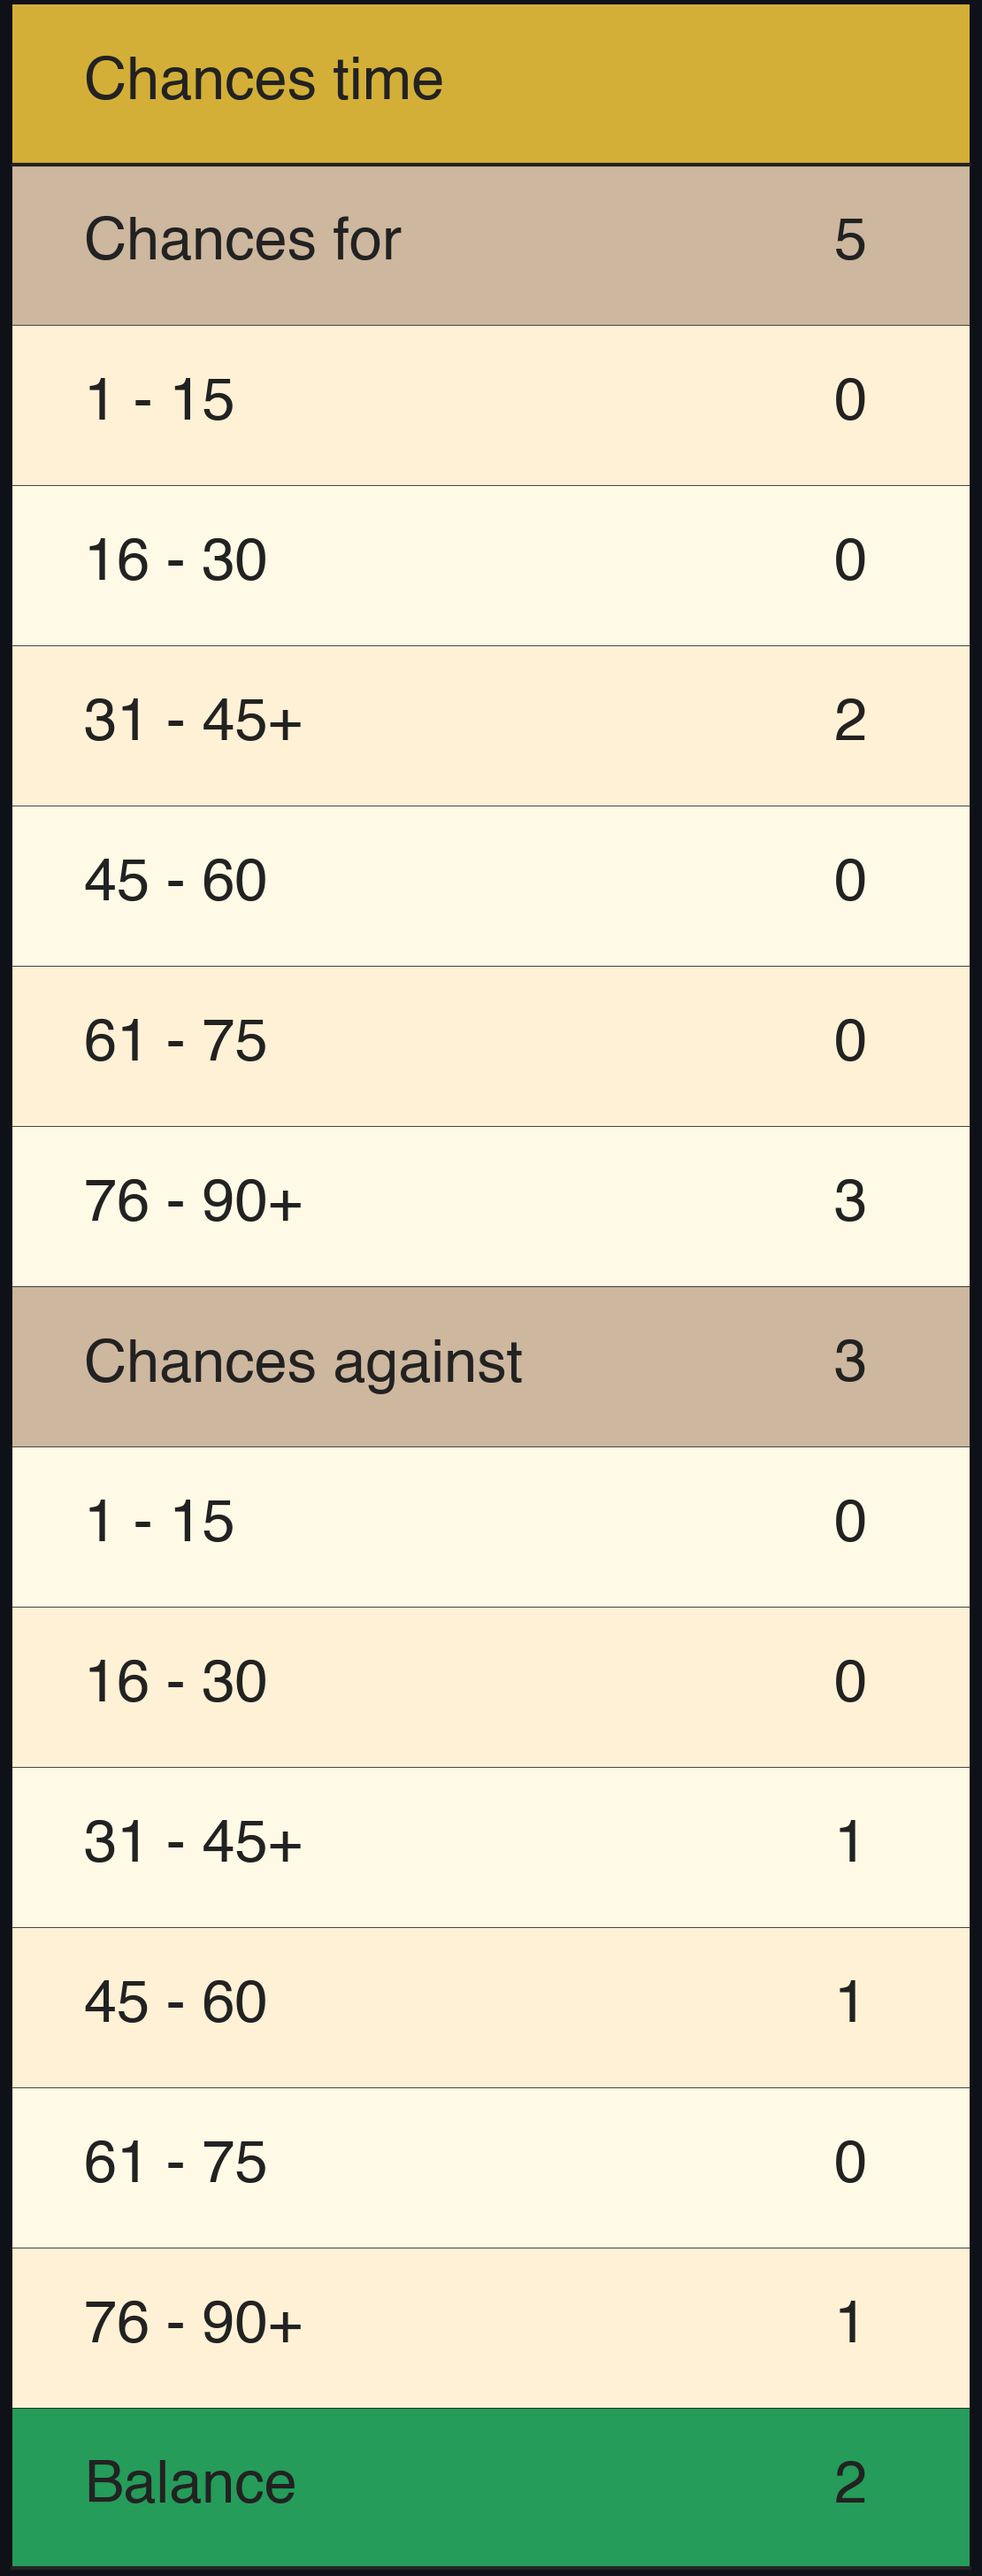
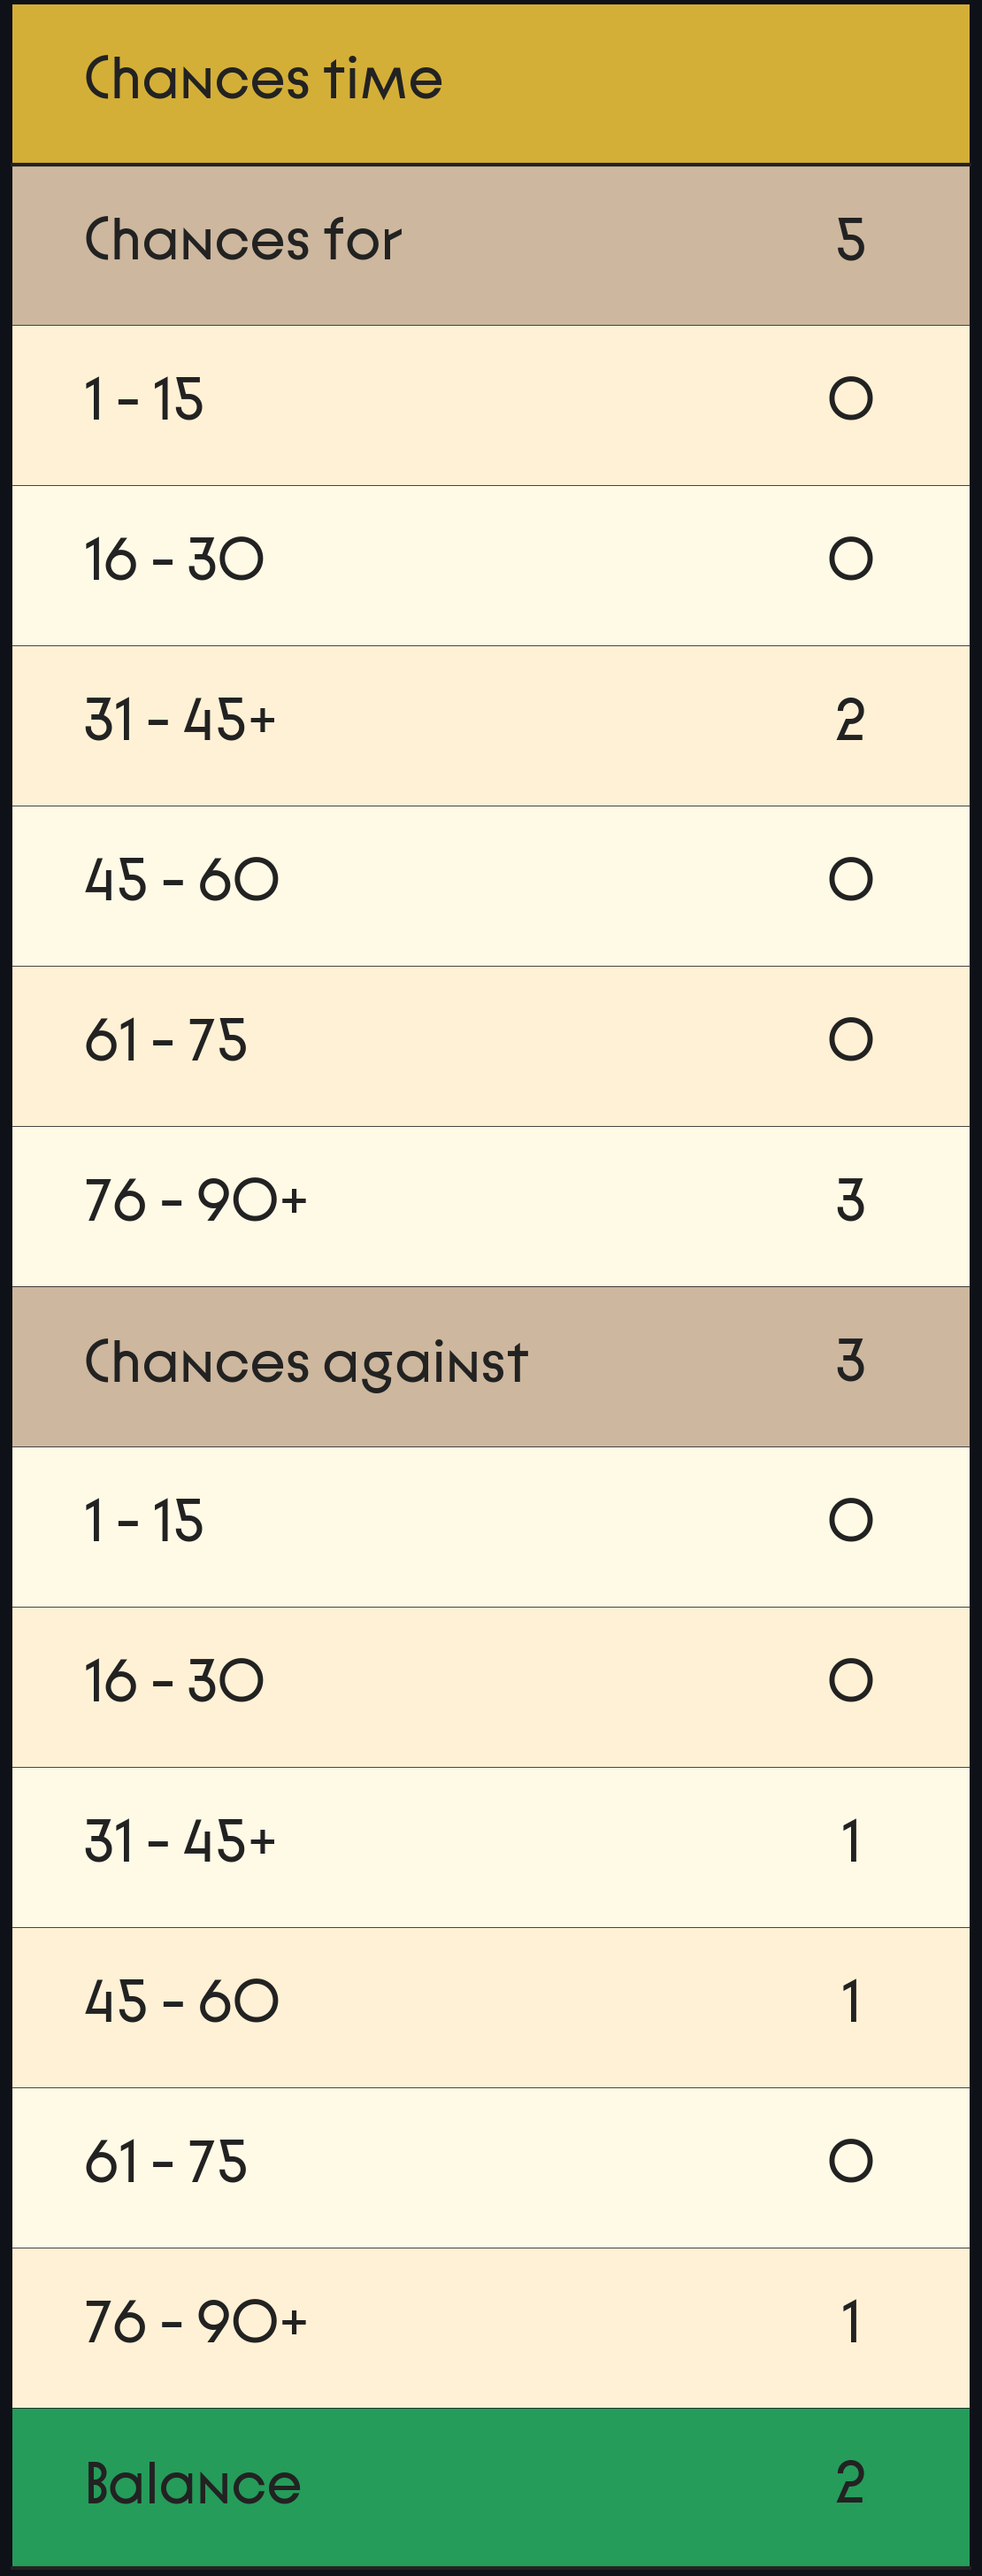
new font and turn off benchmark

diff --git a/streamlit_app.py b/streamlit_app.py
@@ -46,7 +46,7 @@ st.markdown("""
 
 col1, col2= st.columns([1, 10])
 with col1:
-    st.image("legia.ico")
+    st.image("resources/legia.ico")
 with col2:
     # st.title("Legia Warszawa match reports")
     st.markdown('<div class="centered"><h1 class="custom-title">Legia Warszawa match reports</h1></div>', unsafe_allow_html=True)
@@ -99,11 +99,11 @@ if match:
     st.subheader(f'Date: {match_details["match_date"].item()}')
     st.subheader(f'Referee: {match_details["referee"].item()}')
 
-    toc.header("Benchmark")
-    col, _, = st.columns([5, 1])
-    with col:
-        benchmark_chart = BenchmarkChart(matches=matches, game_id=match_id, team_for=team_name, team_against=opponent, creds=creds)
-        st.pyplot(benchmark_chart.plot_benchmark(directory=directory))
+    # toc.header("Benchmark")
+    # col, _, = st.columns([5, 1])
+    # with col:
+    #     benchmark_chart = BenchmarkChart(matches=matches, game_id=match_id, team_for=team_name, team_against=opponent, creds=creds)
+    #     st.pyplot(benchmark_chart.plot_benchmark(directory=directory))
 
     toc.header("OBV Heatmap")
     col1, col2, _, = st.columns([3, 3, 2])

diff --git a/constants.py b/constants.py
@@ -1,4 +1,5 @@
 import seaborn as sns
+from matplotlib import font_manager
 
 
 class Constants:
@@ -45,7 +46,7 @@ class Constants:
         "sbred": "#E21017",
     }
 
-    FONT = "Helvetica"#"Avenir"
+    # FONT = "Helvetica"#"Avenir"
     STREAMLIT_COLOR = '#0E1117'
     TEXT_COLOR = '#222222'
     BACKGROUND_COLOR = '#d4af37'
@@ -73,4 +74,16 @@ class Constants:
         COLORS["very_pale_red"], COLORS["pale_red"], COLORS["light_pale_red"], COLORS["light_red"], 
         COLORS["medium_light_red"], COLORS["medium_red"], COLORS["strong_red"], COLORS["sbred"]
     ]
-    
+
+        # Load the custom font from file and set it up
+    FONT_PATH = "resources/Lineal-Regular.ttf"  # Replace this with the actual path to your font file
+
+    @classmethod
+    def load_font(cls):
+        """Loads and registers the custom font."""
+        font_manager.fontManager.addfont(cls.FONT_PATH)
+        font_prop = font_manager.FontProperties(fname=cls.FONT_PATH)
+        cls.FONT = font_prop.get_name()  # Set the font name to be used
+
+# Initialize font loading at the class level so it is executed once
+Constants.load_font()

diff --git a/plots_and_charts/benchmark_chart.py b/plots_and_charts/benchmark_chart.py
@@ -203,9 +203,11 @@ class BenchmarkChart:
         ax2 = fig.add_subplot(gs[1])
         self.plot_team_data(self.team_against, df_against, ax2)
 
-        fig.text(s=f"Single game data points benchmarked against season averages using z-score calculations",
-         x=0.075, y =-0.05, fontsize=32)
+        fig.text(s=f"Single game data points benchmarked against season averages using z-score calculations", x=0.075, y =-0.05, fontsize=32)
         
+        plt.rcParams["text.color"] = Constants.TEXT_COLOR
+        plt.rcParams["font.family"] = Constants.FONT
+
         fig.savefig(
             f"{directory}/match_benchmark.png",
             facecolor=fig.get_facecolor(),

diff --git a/plots_and_charts/obv_pitches.py b/plots_and_charts/obv_pitches.py
@@ -40,8 +40,11 @@ class ObvPitches:
         fig, ax = plt.subplots(1, 1, figsize=figsize)
         title = self.team_for if team_for else "Opponent"
         heatmap = self.create_heatmap(ax, team_data)
+        
         plt.colorbar(heatmap, ax=ax, label='OBV')
         plt.suptitle(f"{title}'s OBV from Passes, Carries & Dribbles", fontsize=20, fontweight="bold")
+        plt.rcParams["text.color"] = Constants.TEXT_COLOR
+        plt.rcParams["font.family"] = Constants.FONT
         
         fig.savefig(
             f"{directory}/obv_map_{team_type}.png",
